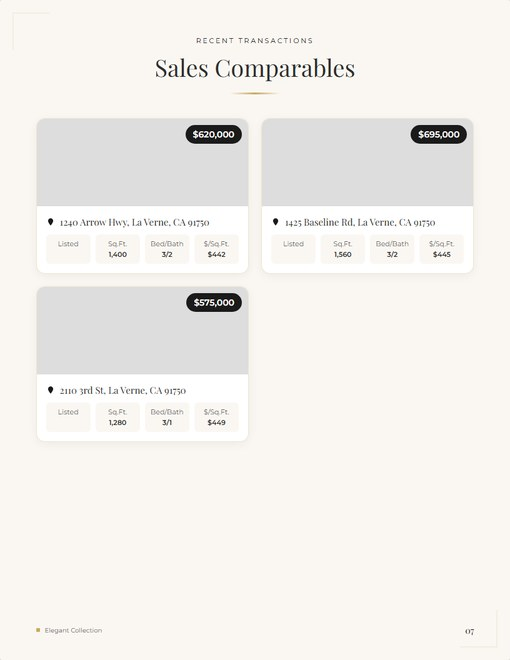
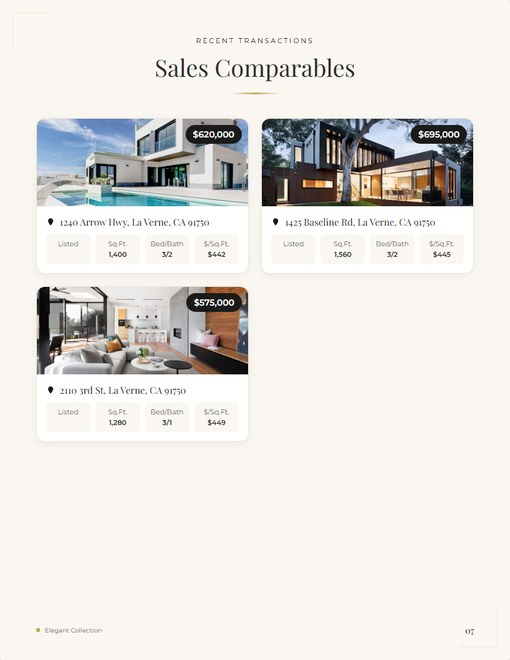
chore: update theme preview images and sample report output
Made-with: Cursor

Changed region(s): [[0.0588, 0.1818, 0.9412, 0.3333], [0.0588, 0.4242, 0.5, 0.5758]]

diff --git a/output/la_verne_themes/modern_report.html b/output/la_verne_themes/modern_report.html
@@ -387,7 +387,7 @@
         <div class="aerial-card"><h3>Neighborhood Context</h3><p>This aerial view showcases your property's location, highlighting proximity to parks, schools, and major thoroughfares.</p></div>
         <div class="aerial-card"><h3>Quarter-Mile Radius</h3><p>Properties within this radius provide the most accurate comparables with similar neighborhood characteristics.</p></div>
       </div>
-      <div class="page-footer" style="border-color: rgba(255,255,255,.15);"><div class="brand" style="color:var(--accent);"><span class="brand-dot"></span>Modern Collection</div><div class="num" style="color:#fff;">03</div></div>
+      <div class="page-footer" style="border-color: rgba(255,255,255,.15);"><div class="brand" style="color:var(--coral-on-dark);"><span class="brand-dot"></span>Modern Collection</div><div class="num" style="color:#fff;">03</div></div>
     </section>
 
     <!-- PAGE 4: PROPERTY -->
@@ -583,7 +583,7 @@
       <div class="property-header"><div><span class="pill">Recent Transactions</span><h2 class="property-title" style="margin-top:12px;">Sales Comparables</h2></div></div>
       <div class="comp-grid">
         <div class="comp-card">
-          <div class="comp-card-image" >
+          <div class="comp-card-image" style="background-image: url('https://images.unsplash.com/photo-1600596542815-ffad4c1539a9?w=400&amp;h=300&amp;fit=crop'); background-size: cover; background-position: center;">
             <div class="comp-card-price">$620,000</div>
           </div>
           <div class="comp-card-body">
@@ -597,7 +597,7 @@
           </div>
         </div>
         <div class="comp-card">
-          <div class="comp-card-image" >
+          <div class="comp-card-image" style="background-image: url('https://images.unsplash.com/photo-1600585154340-be6161a56a0c?w=400&amp;h=300&amp;fit=crop'); background-size: cover; background-position: center;">
             <div class="comp-card-price">$695,000</div>
           </div>
           <div class="comp-card-body">
@@ -611,7 +611,7 @@
           </div>
         </div>
         <div class="comp-card">
-          <div class="comp-card-image" >
+          <div class="comp-card-image" style="background-image: url('https://images.unsplash.com/photo-1600607687939-ce8a6c25118c?w=400&amp;h=300&amp;fit=crop'); background-size: cover; background-position: center;">
             <div class="comp-card-price">$575,000</div>
           </div>
           <div class="comp-card-body">

diff --git a/output/la_verne_themes/elegant_report.html b/output/la_verne_themes/elegant_report.html
@@ -504,7 +504,7 @@
       <div class="property-header"><div class="property-label">Recent Transactions</div><h2 class="property-title">Sales Comparables</h2><div class="gold-rule"></div></div>
       <div class="comp-grid">
         <div class="comp-card">
-          <div class="comp-card-image" >
+          <div class="comp-card-image" style="background-image: url('https://images.unsplash.com/photo-1600596542815-ffad4c1539a9?w=400&amp;h=300&amp;fit=crop'); background-size: cover; background-position: center;">
             <div class="comp-card-badge">$620,000</div>
           </div>
           <div class="comp-card-body">
@@ -518,7 +518,7 @@
           </div>
         </div>
         <div class="comp-card">
-          <div class="comp-card-image" >
+          <div class="comp-card-image" style="background-image: url('https://images.unsplash.com/photo-1600585154340-be6161a56a0c?w=400&amp;h=300&amp;fit=crop'); background-size: cover; background-position: center;">
             <div class="comp-card-badge">$695,000</div>
           </div>
           <div class="comp-card-body">
@@ -532,7 +532,7 @@
           </div>
         </div>
         <div class="comp-card">
-          <div class="comp-card-image" >
+          <div class="comp-card-image" style="background-image: url('https://images.unsplash.com/photo-1600607687939-ce8a6c25118c?w=400&amp;h=300&amp;fit=crop'); background-size: cover; background-position: center;">
             <div class="comp-card-badge">$575,000</div>
           </div>
           <div class="comp-card-body">

diff --git a/output/la_verne_themes/bold_report.html b/output/la_verne_themes/bold_report.html
@@ -1128,7 +1128,7 @@
       </div>
       <div class="comp-grid">
         <div class="comp-card">
-          <div class="comp-card-image" >
+          <div class="comp-card-image" style="background-image: url('https://images.unsplash.com/photo-1600596542815-ffad4c1539a9?w=400&amp;h=300&amp;fit=crop'); background-size: cover; background-position: center;">
             <div class="comp-card-price">$620,000</div>
           </div>
           <div class="comp-card-body">
@@ -1145,7 +1145,7 @@
           </div>
         </div>
         <div class="comp-card">
-          <div class="comp-card-image" >
+          <div class="comp-card-image" style="background-image: url('https://images.unsplash.com/photo-1600585154340-be6161a56a0c?w=400&amp;h=300&amp;fit=crop'); background-size: cover; background-position: center;">
             <div class="comp-card-price">$695,000</div>
           </div>
           <div class="comp-card-body">
@@ -1162,7 +1162,7 @@
           </div>
         </div>
         <div class="comp-card">
-          <div class="comp-card-image" >
+          <div class="comp-card-image" style="background-image: url('https://images.unsplash.com/photo-1600607687939-ce8a6c25118c?w=400&amp;h=300&amp;fit=crop'); background-size: cover; background-position: center;">
             <div class="comp-card-price">$575,000</div>
           </div>
           <div class="comp-card-body">

diff --git a/output/la_verne_themes/classic_report.html b/output/la_verne_themes/classic_report.html
@@ -838,7 +838,7 @@
       </div>
       <div class="comp-grid">
         <div class="comp-card">
-          <div class="comp-card-image" >
+          <div class="comp-card-image" style="background-image: url('https://images.unsplash.com/photo-1600596542815-ffad4c1539a9?w=400&amp;h=300&amp;fit=crop'); background-size: cover; background-position: center;">
             <div class="comp-card-price">$620,000</div>
           </div>
           <div class="comp-card-body">
@@ -855,7 +855,7 @@
           </div>
         </div>
         <div class="comp-card">
-          <div class="comp-card-image" >
+          <div class="comp-card-image" style="background-image: url('https://images.unsplash.com/photo-1600585154340-be6161a56a0c?w=400&amp;h=300&amp;fit=crop'); background-size: cover; background-position: center;">
             <div class="comp-card-price">$695,000</div>
           </div>
           <div class="comp-card-body">
@@ -872,7 +872,7 @@
           </div>
         </div>
         <div class="comp-card">
-          <div class="comp-card-image" >
+          <div class="comp-card-image" style="background-image: url('https://images.unsplash.com/photo-1600607687939-ce8a6c25118c?w=400&amp;h=300&amp;fit=crop'); background-size: cover; background-position: center;">
             <div class="comp-card-price">$575,000</div>
           </div>
           <div class="comp-card-body">

diff --git a/output/la_verne_themes/teal_report.html b/output/la_verne_themes/teal_report.html
@@ -1602,7 +1602,7 @@
 
       <div class="comps-grid">
         <article class="comp-card">
-          <div class="comp-map" >
+          <div class="comp-map" style="background-image: url('https://images.unsplash.com/photo-1600596542815-ffad4c1539a9?w=400&amp;h=300&amp;fit=crop'); background-size: cover; background-position: center;">
             <div class="comp-pin" aria-hidden="true"></div>
           </div>
           <div class="comp-body">
@@ -1630,7 +1630,7 @@
           </div>
         </article>
         <article class="comp-card">
-          <div class="comp-map" >
+          <div class="comp-map" style="background-image: url('https://images.unsplash.com/photo-1600585154340-be6161a56a0c?w=400&amp;h=300&amp;fit=crop'); background-size: cover; background-position: center;">
             <div class="comp-pin" aria-hidden="true"></div>
           </div>
           <div class="comp-body">
@@ -1658,7 +1658,7 @@
           </div>
         </article>
         <article class="comp-card">
-          <div class="comp-map" >
+          <div class="comp-map" style="background-image: url('https://images.unsplash.com/photo-1600607687939-ce8a6c25118c?w=400&amp;h=300&amp;fit=crop'); background-size: cover; background-position: center;">
             <div class="comp-pin" aria-hidden="true"></div>
           </div>
           <div class="comp-body">
